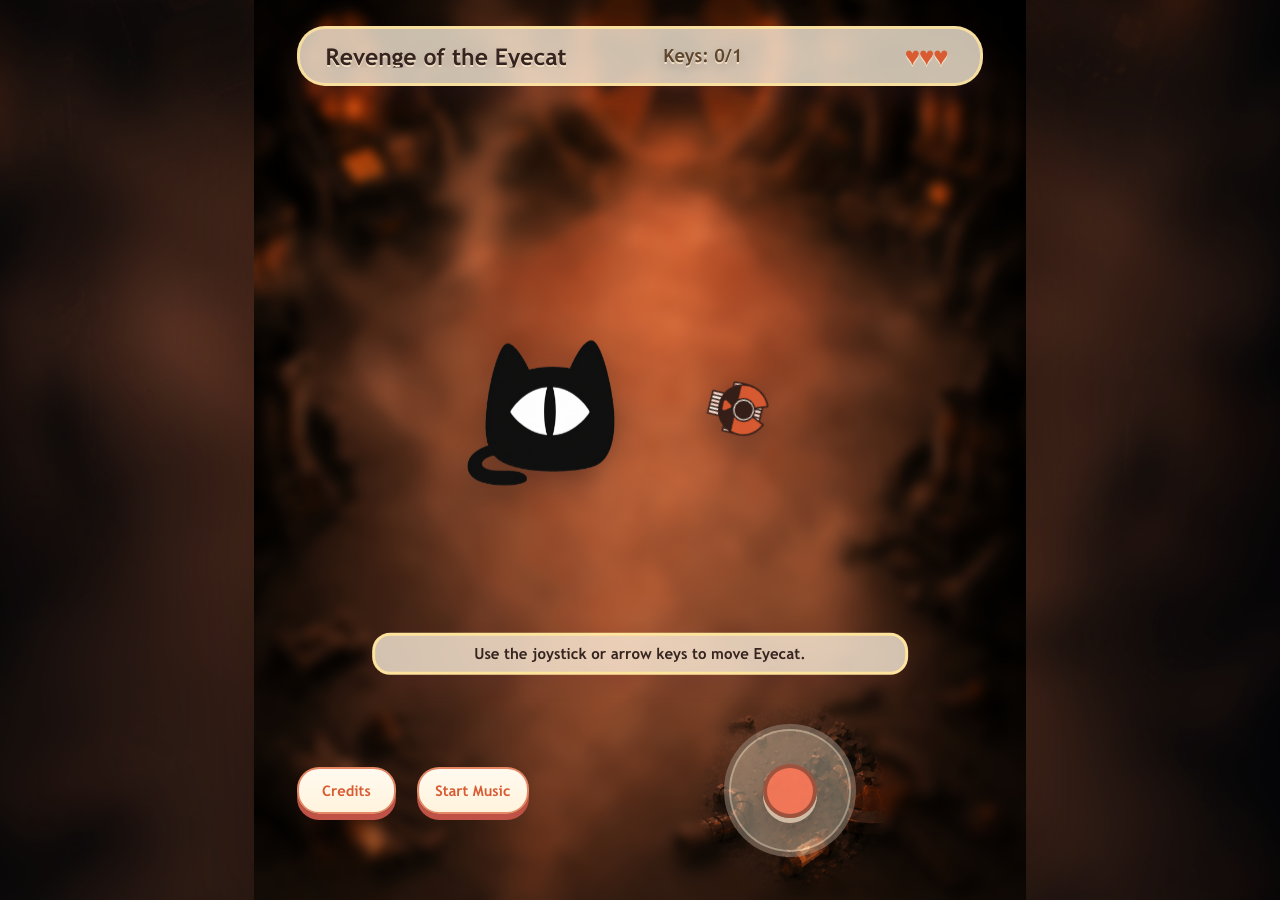
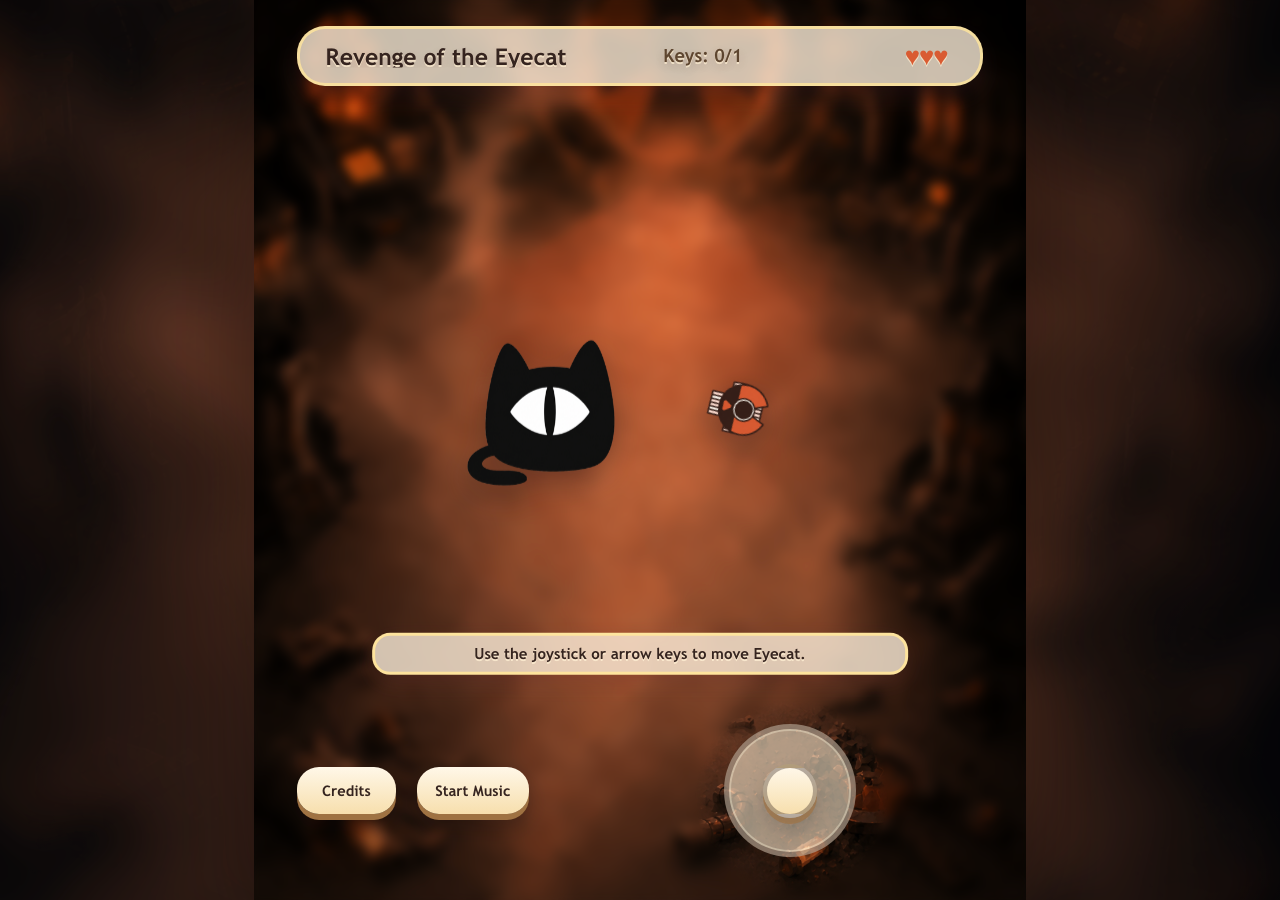
Match Eyecat prompts to trio style

Changed region(s): [[0.5625, 0.8089, 0.6875, 0.9644], [0.2188, 0.8711, 0.4375, 0.9333]]

diff --git a/src/App.css b/src/App.css
@@ -10,8 +10,6 @@
   --gold: #f7dfad;
   --gold-strong: #e8c276;
   --button-shadow: #9f7242;
-  --button-cream: #fff3dc;
-  --button-cream-bright: #fffaf0;
   --orange-deep: #d95b32;
   --orange-shadow: #bf5146;
   --teal: #8ed8d1;
@@ -66,11 +64,11 @@
 
 button {
   min-height: 0;
-  border: 2px solid rgba(217, 91, 50, 0.72);
+  border: 0;
   border-radius: 22px;
-  color: var(--orange-deep);
-  background: linear-gradient(var(--button-cream-bright), var(--button-cream));
-  box-shadow: 0 6px 0 var(--orange-shadow);
+  color: var(--cocoa);
+  background: linear-gradient(#fff7e8, var(--gold));
+  box-shadow: 0 6px 0 var(--button-shadow), 0 12px 22px rgba(5, 8, 18, 0.18);
   cursor: pointer;
   font: inherit;
   font-weight: 650;
@@ -78,7 +76,7 @@ button {
 
 button:active {
   transform: translateY(3px);
-  box-shadow: 0 3px 0 var(--orange-shadow);
+  box-shadow: 0 3px 0 var(--button-shadow), 0 8px 16px rgba(5, 8, 18, 0.16);
 }
 
 button:focus-visible,
@@ -262,22 +260,12 @@ a:focus-visible {
   color: var(--cocoa);
   background: var(--cream-soft);
   box-shadow: 0 8px 22px var(--warm-shadow);
+  font-size: clamp(10px, 2.1cqw, 15px);
+  font-weight: 560;
+  line-height: 1.25;
   text-align: center;
+  text-shadow: 0 2px 0 rgba(255, 239, 211, 0.78);
   pointer-events: none;
-}
-
-.instruction-panel {
-  padding: 5px 12px;
-  border-width: 2px;
-  border-radius: 14px;
-  background: rgba(255, 241, 220, 0.82);
-  box-shadow: 0 6px 16px rgba(97, 45, 52, 0.18);
-}
-
-.level-ready-prompt {
-  padding: 5px 12px;
-  border-width: 2px;
-  border-radius: 14px;
 }
 
 .instruction-panel,
@@ -294,36 +282,14 @@ a:focus-visible {
   overflow-wrap: anywhere;
 }
 
-.instruction-panel strong {
-  color: #2d5529;
-  font-size: clamp(10px, 2.1cqw, 15px);
-  line-height: 1.05;
-}
-
 .instruction-panel span {
-  color: var(--cocoa-soft);
-  font-size: clamp(9px, 1.7cqw, 12px);
-  font-weight: 750;
-  line-height: 1;
-}
-
-.level-ready-prompt strong,
-.level-ready-prompt span {
-  display: block;
+  color: inherit;
+  font: inherit;
 }
 
 .level-ready-prompt strong {
-  color: var(--cocoa);
-  font-size: clamp(11px, 2cqw, 15px);
-  line-height: 1.05;
-}
-
-.level-ready-prompt span {
-  margin-top: 2px;
-  color: var(--orange-deep);
-  font-size: clamp(8px, 1.55cqw, 11px);
-  font-weight: 750;
-  line-height: 1;
+  color: inherit;
+  font: inherit;
 }
 
 .instruction-panel.phase-collect-coins strong,
@@ -357,8 +323,8 @@ a:focus-visible {
 }
 
 .music-button.active {
-  background: linear-gradient(var(--button-cream-bright), var(--button-cream));
-  box-shadow: 0 6px 0 var(--orange-shadow);
+  background: linear-gradient(#fff7e8, var(--gold));
+  box-shadow: 0 6px 0 var(--button-shadow), 0 12px 22px rgba(5, 8, 18, 0.18);
 }
 
 .joystick-wrap {
@@ -375,8 +341,8 @@ a:focus-visible {
   height: 100%;
   border: 5px solid rgba(53, 36, 31, 0.28);
   border-radius: 50%;
-  background: rgba(255, 238, 211, 0.38);
-  box-shadow: inset 0 0 0 2px rgba(255, 247, 221, 0.34);
+  background: var(--cream-glass);
+  box-shadow: inset 0 0 0 2px rgba(255, 247, 221, 0.35);
   cursor: grab;
   touch-action: none;
 }
@@ -394,10 +360,10 @@ a:focus-visible {
   height: 44%;
   margin-left: -22%;
   margin-top: -22%;
-  border: 4px solid rgba(53, 36, 31, 0.44);
+  border: 4px solid rgba(53, 36, 31, 0.36);
   border-radius: 50%;
-  background: rgba(255, 119, 87, 0.88);
-  box-shadow: 0 5px 0 rgba(255, 232, 204, 0.68), 0 14px 24px rgba(5, 8, 18, 0.18);
+  background: linear-gradient(#fff7e8, var(--gold));
+  box-shadow: 0 6px 0 rgba(159, 114, 66, 0.66), 0 14px 24px rgba(5, 8, 18, 0.2);
 }
 
 .start-overlay {

diff --git a/src/App.tsx b/src/App.tsx
@@ -108,7 +108,6 @@ export default function App() {
   const [showConcept, setShowConcept] = useState(false)
   const [devOpen, setDevOpen] = useState(false)
   const [loading, setLoading] = useState(true)
-  const activePreset = mapPresets[activeIndex] ?? mapPresets[0]
   const counts = useMemo(() => mapCounts(mapText), [mapText])
   const finished = runtime.status === 'won' || runtime.status === 'gameover'
   const shellStyle = useMemo(() => ({
@@ -382,7 +381,7 @@ export default function App() {
         <footer className="bottom-controls" style={rectStyle(gameConfig.layout.bottomControls)} aria-hidden="true" />
         {started && levelPaused ? (
           <div className="level-ready-prompt" style={centeredTextStyle(gameConfig.layout.eventPrompt)}>
-            <strong>{activePreset.name}</strong>
+            <strong>Find the keys and rescue the cat.</strong>
           </div>
         ) : null}
         {started && instructionVisible && !levelPaused ? (
@@ -659,13 +658,13 @@ function shouldShowInstructionNotice(previous: RuntimeSnapshot, current: Runtime
 
 function compactInstruction(runtime: RuntimeSnapshot): string {
   const missingKeys = Math.max(0, runtime.requiredKeys - runtime.keysCollected)
-  if (runtime.status === 'won') return 'Cat Rescued'
-  if (runtime.status === 'gameover') return 'Back To Level 1'
-  if (runtime.frightRemaining > 0) return 'Eyecat Is Invincible'
-  if (runtime.lives < runtime.maxLives && runtime.message.toLowerCase().includes('heart')) return 'Caught'
-  if (runtime.keysCollected >= runtime.requiredKeys) return 'Rescue The Cat'
-  if (runtime.instructionPhase === 'key-appeared' || missingKeys <= 1) return 'Find The Missing Key'
-  return 'Find The Keys'
+  if (runtime.status === 'won') return 'Cat rescued.'
+  if (runtime.status === 'gameover') return 'Back to level 1.'
+  if (runtime.frightRemaining > 0) return 'Eyecat is invincible.'
+  if (runtime.lives < runtime.maxLives && runtime.message.toLowerCase().includes('heart')) return 'Caught.'
+  if (runtime.keysCollected >= runtime.requiredKeys) return 'Rescue the cat.'
+  if (runtime.instructionPhase === 'key-appeared' || missingKeys <= 1) return 'Find the missing key.'
+  return 'Find the keys.'
 }
 
 function rectStyle(rect: { x: number; y: number; width: number; height: number }): CSSProperties {